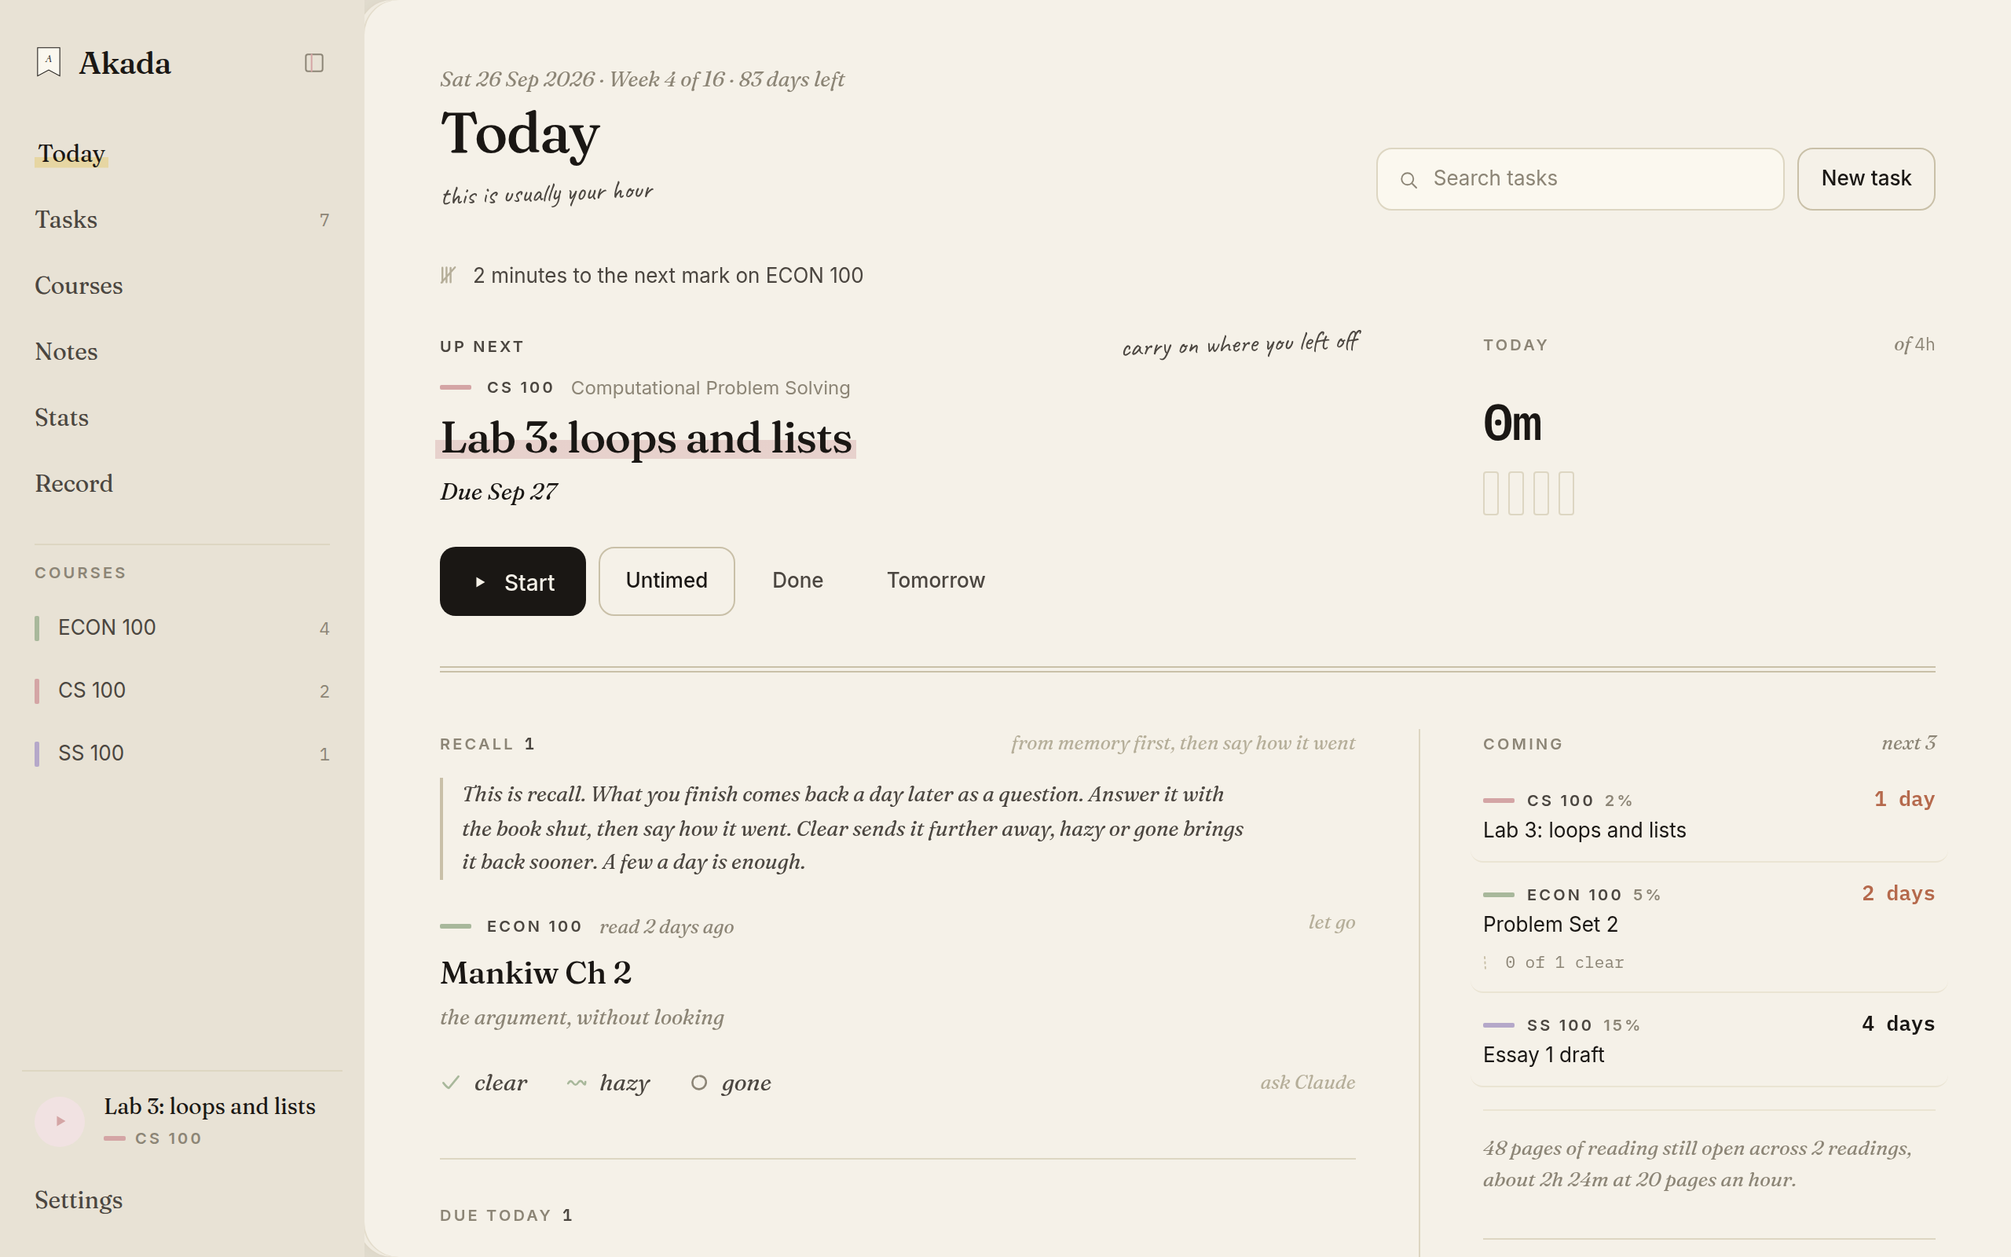
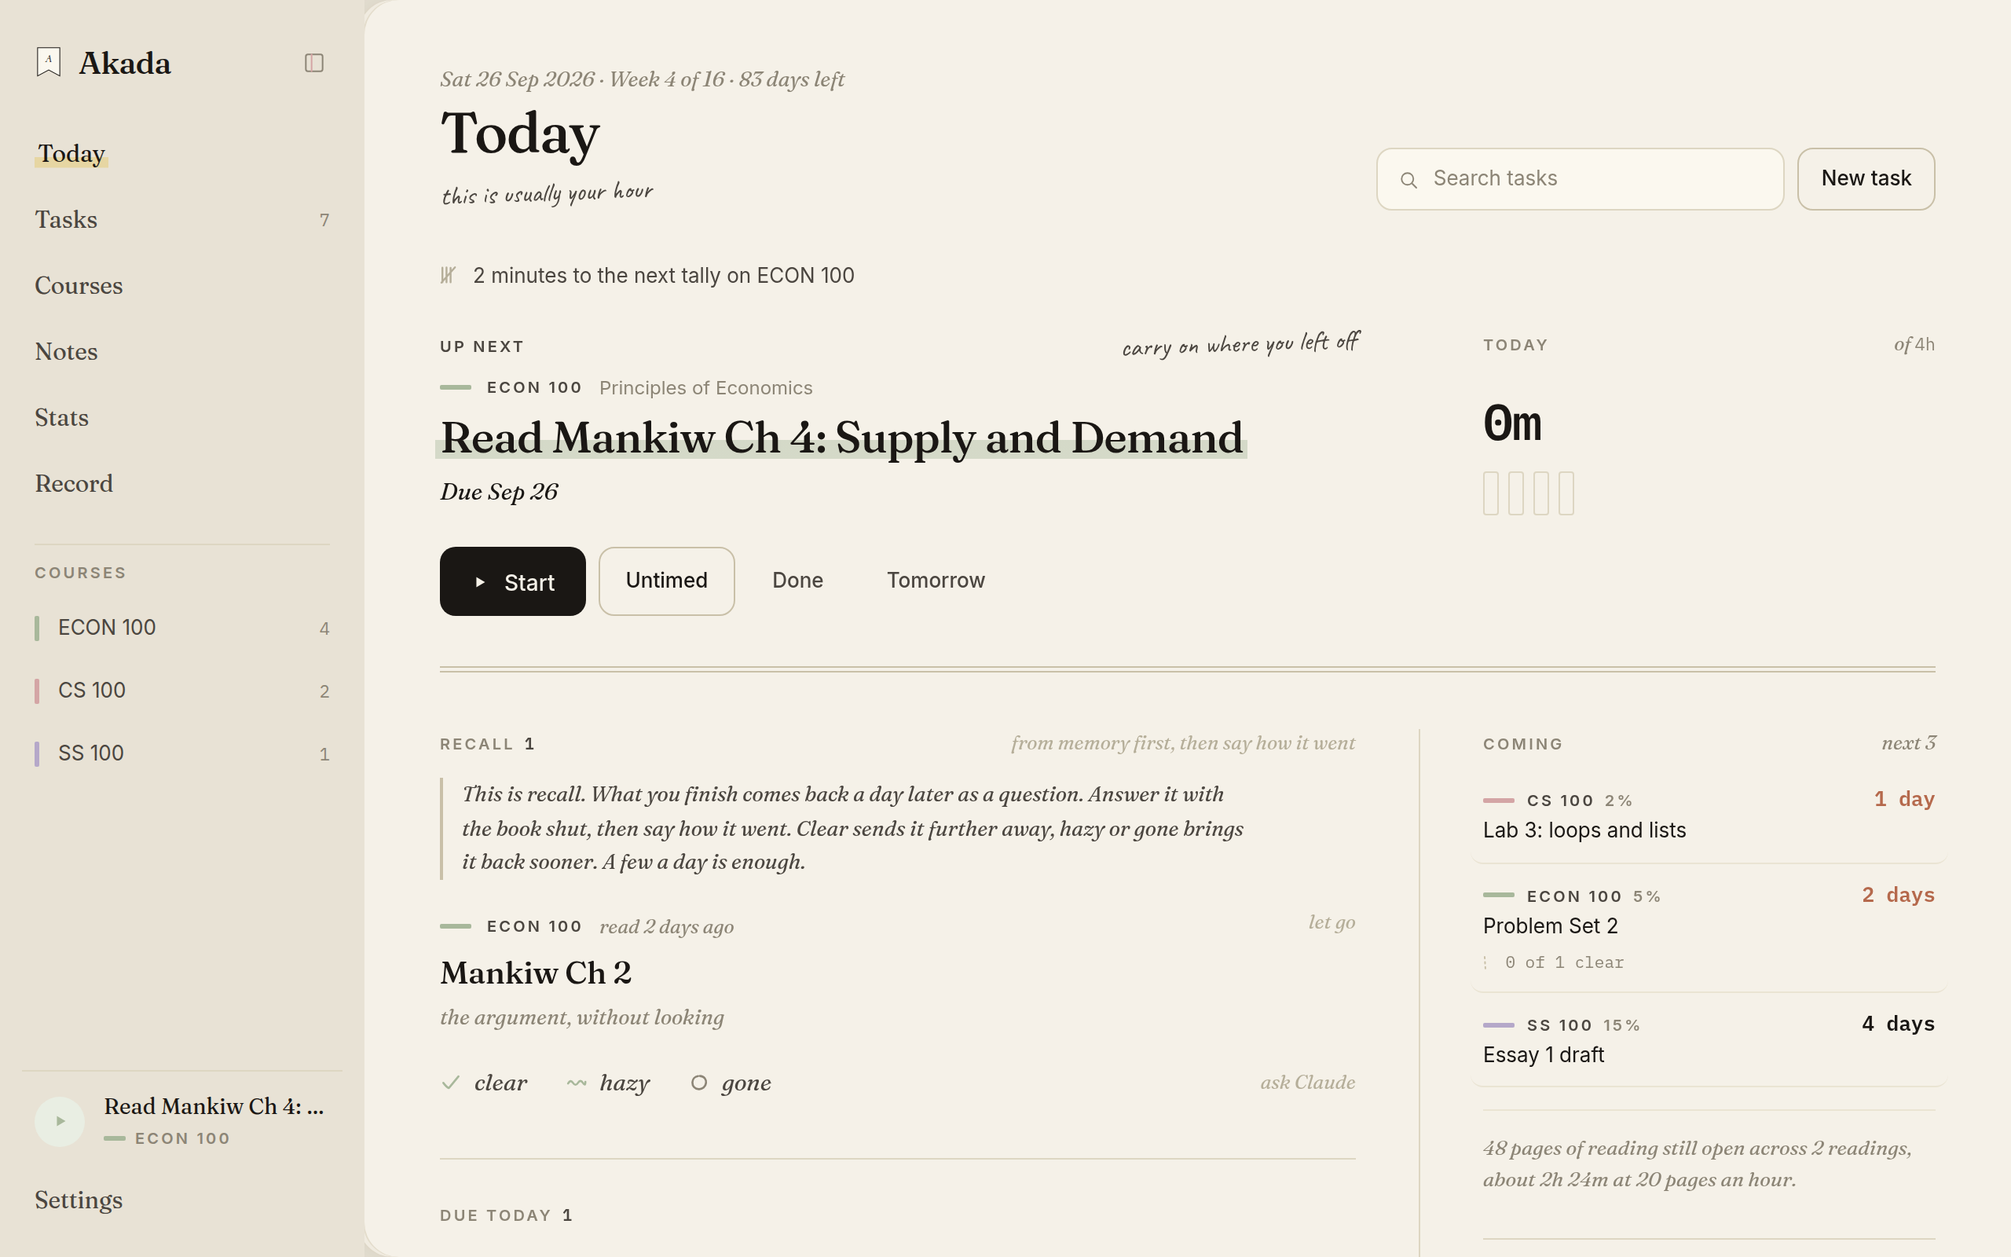
Cut the sauce: tallies not marks, one run in weeks, and a Record that waits
"Mark" meant a grade, forty minutes of study on the Record, and ten minutes
on Stats, and "15 minutes to the first mark on ECON 100" read to a LUMS
student as their next grade. The Record's unit is now a tally on every
screen, Stats' milestone counts strokes, and "marks" means grades only.
Code names are unchanged since impression logs store them.

Stats said "days running" and Settings said the daily goal fed a streak,
while Today, the Record and the guide said the run counts weeks. Stats now
shows the one run in weeks, and the daily goal says what it actually does.

The Record tab waits for the first session: until then the phone bar shows
Courses in its slot and the rail leaves it out. Its first visits carry a
note saying what a tally, a page and the run are, until a page binds. A
new course is no longer called "untouched" in its first week, Notes stops
saying ".md", and the Record's empty state links to Today rather than to
a timer page that bounces there. Landing shots retaken.

Claude-Session: https://claude.ai/code/session_0143QZJvdu3vBPDhnsL7NgWg

diff --git a/app/stamps/page.tsx b/app/stamps/page.tsx
@@ -15,6 +15,8 @@ import TrustPulse from '@/components/progression/TrustPulse';
 import { useActiveSemester, useCourses } from '@/lib/data-hooks';
 import { sortCourses } from '@/lib/data/course-order';
 import { MARKS_PER_PAGE, MARK_SECONDS } from '@/lib/progression';
+import { FIRST_MARK_SECONDS } from '@/lib/progression/constants';
+import FirstNote from '@/components/FirstNote';
 import { useProgression } from '@/lib/progression/use-progression';
 import {
   diffRecord,
@@ -160,7 +162,7 @@ export default function RecordPage() {
       >
         <p className="m-0 flex flex-wrap items-baseline gap-x-5 gap-y-1.5 font-serif text-[13px] italic text-muted">
           <span>
-            <Figure>{marks}</Figure> {marks === 1 ? 'mark' : 'marks'} inked
+            <Figure>{marks}</Figure> {marks === 1 ? 'tally' : 'tallies'} inked
           </span>
           <span>
             <Figure>{bound}</Figure> {bound === 1 ? 'page' : 'pages'} bound
@@ -176,6 +178,18 @@ export default function RecordPage() {
         </p>
       </div>
 
+      {/* Said until the first page binds anywhere, which is the moment the
+          reader has watched the whole loop happen once. */}
+      {!empty && bound === 0 && (
+        <FirstNote className="mb-[var(--density-gap)]">
+          This is the Record, the fun half of your hours. Every{' '}
+          {Math.round(MARK_SECONDS / 60)} minutes on a course inks a tally on its page (the
+          first one takes {Math.round(FIRST_MARK_SECONDS / 60)}), and {MARKS_PER_PAGE} tallies
+          bind the page. Your run counts weeks, so a day off costs nothing. Stamps are struck
+          as the term adds up. All of it is worked out from the sessions you log.
+        </FirstNote>
+      )}
+
       {news?.any && <SinceLastLooked news={news} courses={courses} ladders={progression.ladders} />}
 
       {empty && (
@@ -184,10 +198,10 @@ export default function RecordPage() {
             The record starts with the first sitting you log.
           </p>
           <Link
-            href="/timer"
+            href="/dashboard"
             className="hand-underline mt-2 inline-block font-serif text-[14px] text-ink no-underline"
           >
-            Open the timer
+            Start a timer from Today
           </Link>
         </div>
       )}
@@ -198,7 +212,7 @@ export default function RecordPage() {
             <div className="mb-1 flex flex-wrap items-baseline justify-between gap-2">
               <h2 className="m-0 font-serif text-[20px] font-medium">Course pages</h2>
               <span className="font-serif text-[12.5px] italic text-muted">
-                {MARKS_PER_PAGE} marks, about{' '}
+                {MARKS_PER_PAGE} tallies, about{' '}
                 {Math.round((MARKS_PER_PAGE * MARK_SECONDS) / 3600)} hours, binds a page
               </span>
             </div>
@@ -321,7 +335,7 @@ function SinceLastLooked({
       figure: `+${totalMarks}`,
       text: (
         <>
-          {totalMarks === 1 ? 'mark inked' : 'marks inked'}
+          {totalMarks === 1 ? 'tally inked' : 'tallies inked'}
           {news.marks.length > 0 && (
             <span className="text-muted">
               {' · '}

diff --git a/components/BottomNav.tsx b/components/BottomNav.tsx
@@ -2,6 +2,7 @@
 
 import Link from 'next/link';
 import { useRecordHasNews } from '@/lib/progression/visits';
+import { useRecordEarned } from '@/lib/record-earned';
 import { usePathname } from 'next/navigation';
 
 const tabs = [
@@ -106,14 +107,37 @@ const tabs = [
   },
 ];
 
+// Until the first session is logged the Record has nothing on it, so its
+// slot goes to Courses, which a phone otherwise only reaches through Today.
+const COURSES_TAB = {
+  href: '/courses',
+  label: 'Courses',
+  icon: (
+    <svg aria-hidden
+      width="20"
+      height="20"
+      viewBox="0 0 24 24"
+      fill="none"
+      stroke="currentColor"
+      strokeLinecap="round"
+      strokeLinejoin="round"
+    >
+      <path d="M5 4.5h9a2 2 0 0 1 2 2V20H7a2 2 0 0 1-2-2z" />
+      <path d="M16 6.5h1.5a1.5 1.5 0 0 1 1.5 1.5V20h-3" />
+      <path d="M8.5 9h4.5" />
+    </svg>
+  ),
+};
+
 // A course page is reached from the course cards on Today, and its back
 // button returns there, so it keeps that tab lit rather than leaving the bar
 // with nothing marked.
 const OWNED_BY: Record<string, string> = { '/courses': '/dashboard' };
 
-function isActive(pathname: string | null, href: string) {
+function isActive(pathname: string | null, href: string, owned = true) {
   if (!pathname) return false;
   if (pathname === href || pathname.startsWith(href + '/')) return true;
+  if (!owned) return false;
   return Object.entries(OWNED_BY).some(
     ([prefix, owner]) =>
       owner === href && (pathname === prefix || pathname.startsWith(prefix + '/')),
@@ -123,6 +147,10 @@ function isActive(pathname: string | null, href: string) {
 export default function BottomNav() {
   const pathname = usePathname();
   const recordNews = useRecordHasNews();
+  const recordEarned = useRecordEarned();
+  const shown = recordEarned
+    ? tabs
+    : tabs.map((tab) => (tab.href === '/stamps' ? COURSES_TAB : tab));
   return (
     /* The fade has to finish before the icons start, otherwise a card
        scrolling underneath stays legible behind the tab labels. The taller
@@ -137,8 +165,8 @@ export default function BottomNav() {
       }}
     >
       <div className="pointer-events-auto mx-auto max-w-2xl md:max-w-3xl w-full flex justify-around items-center">
-        {tabs.map((tab) => {
-          const active = isActive(pathname, tab.href);
+        {shown.map((tab) => {
+          const active = isActive(pathname, tab.href, recordEarned);
           const news = tab.href === '/stamps' && recordNews && !active;
           return (
             <Link

diff --git a/app/notes/page.tsx b/app/notes/page.tsx
@@ -783,12 +783,12 @@ function NotesContent() {
         <p className="standfirst">Nothing on the shelf yet</p>
         <h1 className="screen-title">Notes</h1>
         <p className="lede">
-          A quiet place to read what you’re studying. Open a <span className="hl-swipe">.md</span> file, drop one anywhere on the page, or have your AI write one.
+          A quiet place to read what you’re studying. Write a note, paste one in, drop a text file on the page, or <a className="link" href="/claude">have Claude write one</a> straight onto this shelf.
         </p>
         <div className="row">
           <button type="button" className="btn btn-primary" onClick={() => go('new=1')}><Icon name="write" size={16} />New note</button>
-          <button type="button" className="btn btn-dashed" onClick={() => fileRef.current?.click()}><Icon name="upload" size={16} />Open .md</button>
-          <button type="button" className="btn btn-ghost" onClick={() => setPromptOpen(true)}><Icon name="copy" size={16} />AI prompt</button>
+          <button type="button" className="btn btn-dashed" onClick={() => fileRef.current?.click()}><Icon name="upload" size={16} />Open a file</button>
+          <button type="button" className="btn btn-ghost" onClick={() => setPromptOpen(true)}><Icon name="copy" size={16} />Prompt for an AI</button>
         </div>
         <div style={{ marginTop: 18 }}>
           <button type="button" className="link" onClick={() => void addNotes([sampleNote()], 'Here’s a sample to read.', 'app')}>or read a sample note first</button>
@@ -797,7 +797,7 @@ function NotesContent() {
         <div className="keys" aria-label="Keyboard shortcuts">
           <div><span className="kbd">N</span> new note</div>
           <div><span className="kbd">O</span> open a file</div>
-          <div><span className="kbd">Ctrl V</span> paste markdown as a note</div>
+          <div><span className="kbd">Ctrl V</span> paste text as a note</div>
         </div>
       </div>
     );

diff --git a/app/stats/page.tsx b/app/stats/page.tsx
@@ -1,5 +1,6 @@
 'use client';
 
+import { useProgression } from '@/lib/progression/use-progression';
 import { useEffect, useMemo, useRef, useState } from 'react';
 import { useRouter } from 'next/navigation';
 import Link from 'next/link';
@@ -16,7 +17,6 @@ import {
   formatRelativeDate,
   isoDate,
   resolveTint,
-  studyStreakDays,
   totalSeconds,
 } from '@/lib/utils';
 import { usePreferences } from '@/lib/preferences';
@@ -253,7 +253,11 @@ export default function StatsPage() {
   const totalSec = totalSeconds(sessions);
   const dayCount = new Set(sessions.map((s) => s.date)).size;
   const avgPerDay = dayCount ? totalSec / dayCount : 0;
-  const streak = studyStreakDays(sessions);
+  // One run in the whole app, counted in weeks. This line used to count
+  // days while Today, the Record and the guide all said a day off costs
+  // nothing, which is two streaks disagreeing on the same screen pair.
+  const { progression } = useProgression();
+  const run = progression?.runs.current ?? 0;
 
   // Editorial computed bits, the Vol./Issue mark, totals, and "best day"
   // headline that the redesigned stats page leans on.
@@ -383,7 +387,7 @@ export default function StatsPage() {
       >
         <p className="m-0 flex flex-wrap items-baseline gap-x-5 gap-y-1.5 font-serif text-[13px] italic text-muted">
           <span>
-            <Figure>{streak}</Figure> day{streak === 1 ? '' : 's'} running
+            <Figure>{run}</Figure> {run === 1 ? 'week' : 'weeks'} running
           </span>
           {avgPerDay > 0 && (
             <span>

diff --git a/lib/progression/effect.test.ts b/lib/progression/effect.test.ts
@@ -58,10 +58,10 @@ function readings(
 
 test('the first mark on a new course is named, and the distance moves with the clock', () => {
   const still = readings([MATH], [], [], null, THU);
-  assert.equal(still.before.nextMark.shown?.line, '15 minutes to the first mark on MATH');
+  assert.equal(still.before.nextMark.shown?.line, '15 minutes to the first tally on MATH');
 
   const tenIn = readings([MATH], [], [], { courseId: 'math', date: THU, minutes: 10 }, THU);
-  assert.equal(tenIn.after.nextMark.shown?.line, '5 minutes to the first mark on MATH');
+  assert.equal(tenIn.after.nextMark.shown?.line, '5 minutes to the first tally on MATH');
 });
 
 test('a sitting that crosses a mark says so and names the next one', () => {
@@ -73,12 +73,12 @@ test('a sitting that crosses a mark says so and names the next one', () => {
     THU,
   );
   const effect = readSittingEffect(before, after, [MATH], 'math', THU);
-  assert.deepEqual(effect.lines.slice(0, 2), ['a mark inked on MATH', 'today counts']);
+  assert.deepEqual(effect.lines.slice(0, 2), ['a tally inked on MATH', 'today counts']);
   assert.equal(effect.marks, 1);
   assert.equal(effect.tally.fresh, 1);
   // Marks land at 15, 55, 95 and 135 credited minutes. 60 before, 100 after:
   // the third mark landed and the fourth is 35 away.
-  assert.equal(effect.next?.line, '35 minutes to the next mark on MATH');
+  assert.equal(effect.next?.line, '35 minutes to the next tally on MATH');
 });
 
 test('the day that would make the week count is named as the week, not the day', () => {

diff --git a/components/progression/HabitsPanel.tsx b/components/progression/HabitsPanel.tsx
@@ -33,7 +33,7 @@ import { formatHM } from '@/lib/utils';
  */
 
 const KIND_LABEL: Record<MarkKind, string> = {
-  'course-mark': 'a mark on a course',
+  'course-mark': 'a tally on a course',
   'course-page': 'a page binding',
   'week-goal': "a course's week",
   'week-counts': 'the week itself',
@@ -73,7 +73,7 @@ export default function HabitsPanel({ habits, courses }: { habits: Habits; cours
     {
       key: 'good',
       figure: settled(habits.sittings) ? formatHM(habits.sittings.upper) : null,
-      text: 'a good one, and how far Next Mark reaches',
+      text: 'a good one, and how far the next-tally line reaches',
       needs: after(sittingsLeft, 'sitting'),
     },
     {
@@ -211,7 +211,7 @@ export default function HabitsPanel({ habits, courses }: { habits: Habits; cours
           )}
 
           <div>
-            <p className="eyebrow m-0 mb-1.5">What Next Mark has learned</p>
+            <p className="eyebrow m-0 mb-1.5">What the next-tally line has learned</p>
             <p className="m-0 font-serif text-[13px] leading-[1.6] text-muted">
               {learned.length >= 2 ? (
                 <>

diff --git a/components/DesktopRail.tsx b/components/DesktopRail.tsx
@@ -10,6 +10,7 @@ import { useUpNext } from '@/lib/use-up-next';
 import { isoDate, resolveTint } from '@/lib/utils';
 import { sortCourses } from '@/lib/data/course-order';
 import { useRecordHasNews } from '@/lib/progression/visits';
+import { useRecordEarned } from '@/lib/record-earned';
 import { RAIL_COLLAPSED_KEY as COLLAPSE_KEY, writeRailAttribute } from '@/lib/rail';
 import type { Course } from '@/lib/data/types';
 import AkadaMark from './notebook/AkadaMark';
@@ -202,6 +203,7 @@ interface Tip {
 export default function DesktopRail() {
   const pathname = usePathname();
   const recordNews = useRecordHasNews();
+  const recordEarned = useRecordEarned();
   const [collapsed, setCollapsed] = useRailCollapsed();
   const { courses } = useCourses();
   const { tasks } = useTasks();
@@ -413,7 +415,7 @@ export default function DesktopRail() {
           </button>
         </div>
 
-        {NAV.map((item) =>
+        {NAV.filter((item) => recordEarned || item.href !== '/stamps').map((item) =>
           screenRow(
             item,
             item.href === '/tasks' && openCounts.total > 0 ? (

diff --git a/components/progression/PagesExplainer.tsx b/components/progression/PagesExplainer.tsx
@@ -35,12 +35,12 @@ export default function PagesExplainer({
       </summary>
       <div className="mt-2 flex flex-col gap-2 text-[12px] leading-[1.6] text-muted">
         <p className="m-0">
-          Every {markMinutes} minutes you study a course inks one mark on its
-          page. The very first mark on a new course only takes {firstMinutes}.
+          Every {markMinutes} minutes you study a course inks one tally on its
+          page. The very first tally on a new course only takes {firstMinutes}.
           Ticking off a task for that course adds a few minutes too.
         </p>
         <p className="m-0">
-          Fill all {MARKS_PER_PAGE} marks, about {pageHours} hours on that one
+          Fill all {MARKS_PER_PAGE} tallies, about {pageHours} hours on that one
           course, and the page binds. It goes onto the stack beside the course
           for good and a fresh page opens. Bound pages never come off, even if
           you drop the course for a month.

diff --git a/components/progression/CoursePage.tsx b/components/progression/CoursePage.tsx
@@ -83,18 +83,18 @@ export default function CoursePage({
               <span className="font-mono not-italic text-ink-soft">
                 {formatHM(record.toNextMark)}
               </span>{' '}
-              to the first mark
+              to the first tally
             </>
           ) : (
             <>
               <span className="font-mono not-italic text-ink-soft">
                 {formatHM(record.toNextMark)}
               </span>{' '}
-              to the next mark
+              to the next tally
               {' · '}
               {record.toBind === 1
                 ? 'one more binds the page'
-                : `${record.toBind} marks to bind the page`}
+                : `${record.toBind} tallies to bind the page`}
             </>
           )}
         </p>

diff --git a/components/notes/Shelf.tsx b/components/notes/Shelf.tsx
@@ -214,9 +214,9 @@ export default function Shelf({ notes, courses, onOpen, onFocus, onDelete, onNew
         </div>
         <div className="actions">
           <button type="button" className="btn btn-ghost" onClick={onPrompt} title="A prompt for your AI">
-            <Icon name="copy" size={16} />AI prompt
+            <Icon name="copy" size={16} />Prompt for an AI
           </button>
-          <button type="button" className="btn btn-ghost" onClick={onOpenFile} title="Open .md (O)">
+          <button type="button" className="btn btn-ghost" onClick={onOpenFile} title="Open a file (O)">
             <Icon name="upload" size={16} />Open
           </button>
           <button type="button" className="btn btn-primary" onClick={onNew} title="New note (N)">

diff --git a/components/progression/CoursePagePanel.tsx b/components/progression/CoursePagePanel.tsx
@@ -48,13 +48,13 @@ export default function CoursePagePanel({
           color={course.color}
         />
         <span className="font-mono text-[12px] text-muted">
-          {record.onPage} of {MARKS_PER_PAGE} marks
+          {record.onPage} of {MARKS_PER_PAGE} tallies
         </span>
       </div>
 
       <p className="m-0 mt-4 font-serif text-[13px] italic leading-[1.6] text-muted">
         <Figure>{formatHM(record.toNextMark)}</Figure> of study to the{' '}
-        {record.marks === 0 ? 'first' : 'next'} mark
+        {record.marks === 0 ? 'first' : 'next'} tally
         {' · '}
         <Figure>{formatHM(record.toBindSeconds)}</Figure> to bind this page
       </p>

diff --git a/components/CourseCard.tsx b/components/CourseCard.tsx
@@ -50,7 +50,11 @@ export default function CourseCard({
 
   const last = lastSeenByCourse(sessions)[course.id];
   const since = last ? daysBetween(last, isoDate()) : Infinity;
-  const neglected = since >= neglectedCutoffDays;
+  // A course added this week with no sessions is new, not neglected. Calling
+  // it "untouched" on the first day read as a telling-off before anything had
+  // been asked of anyone.
+  const isNew = since === Infinity && daysBetween(course.createdAt.slice(0, 10), isoDate()) < 7;
+  const neglected = since >= neglectedCutoffDays && !isNew;
 
   const openTaskCount = tasks.filter((t) => !t.completed).length;
 
